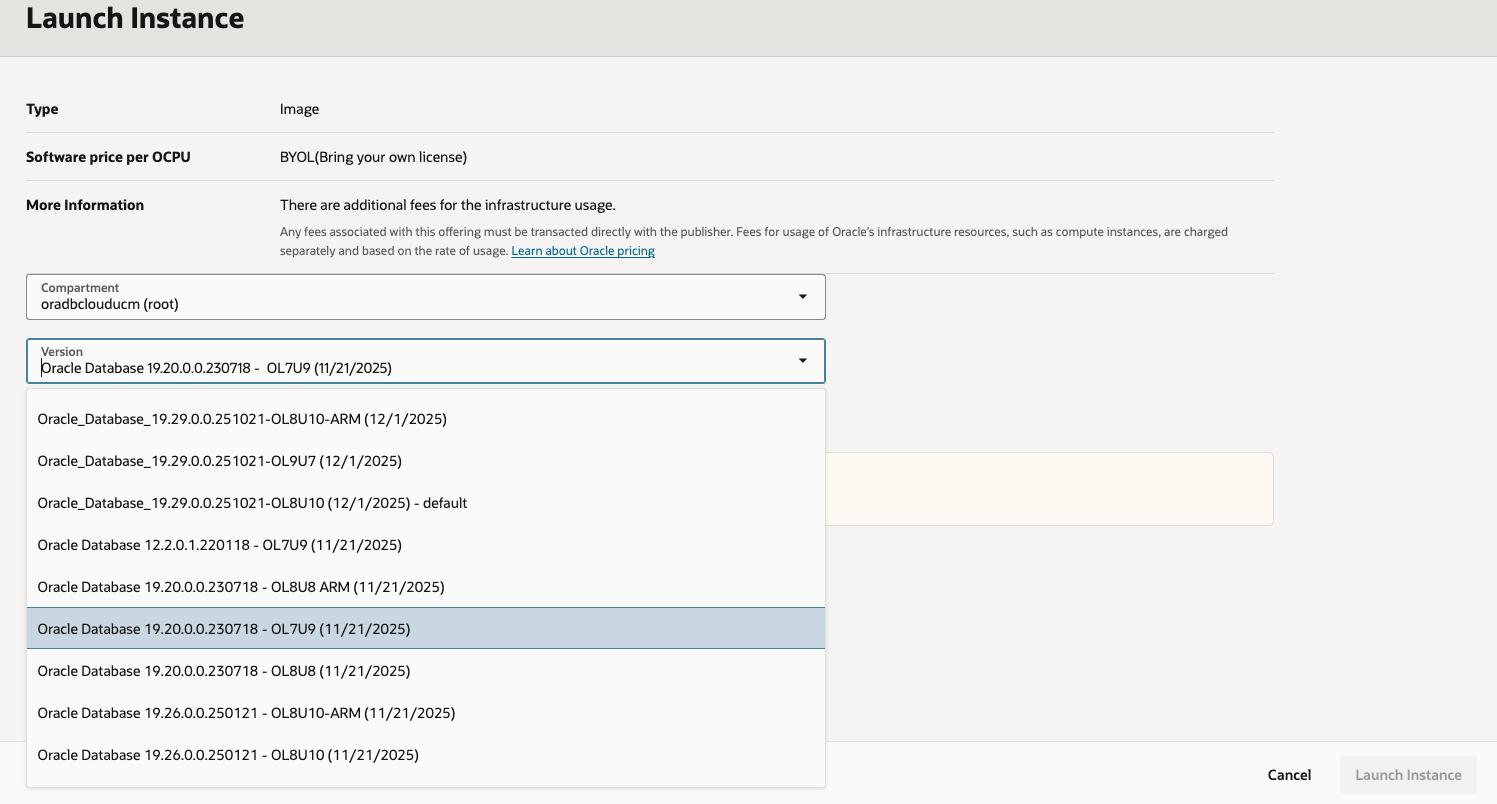
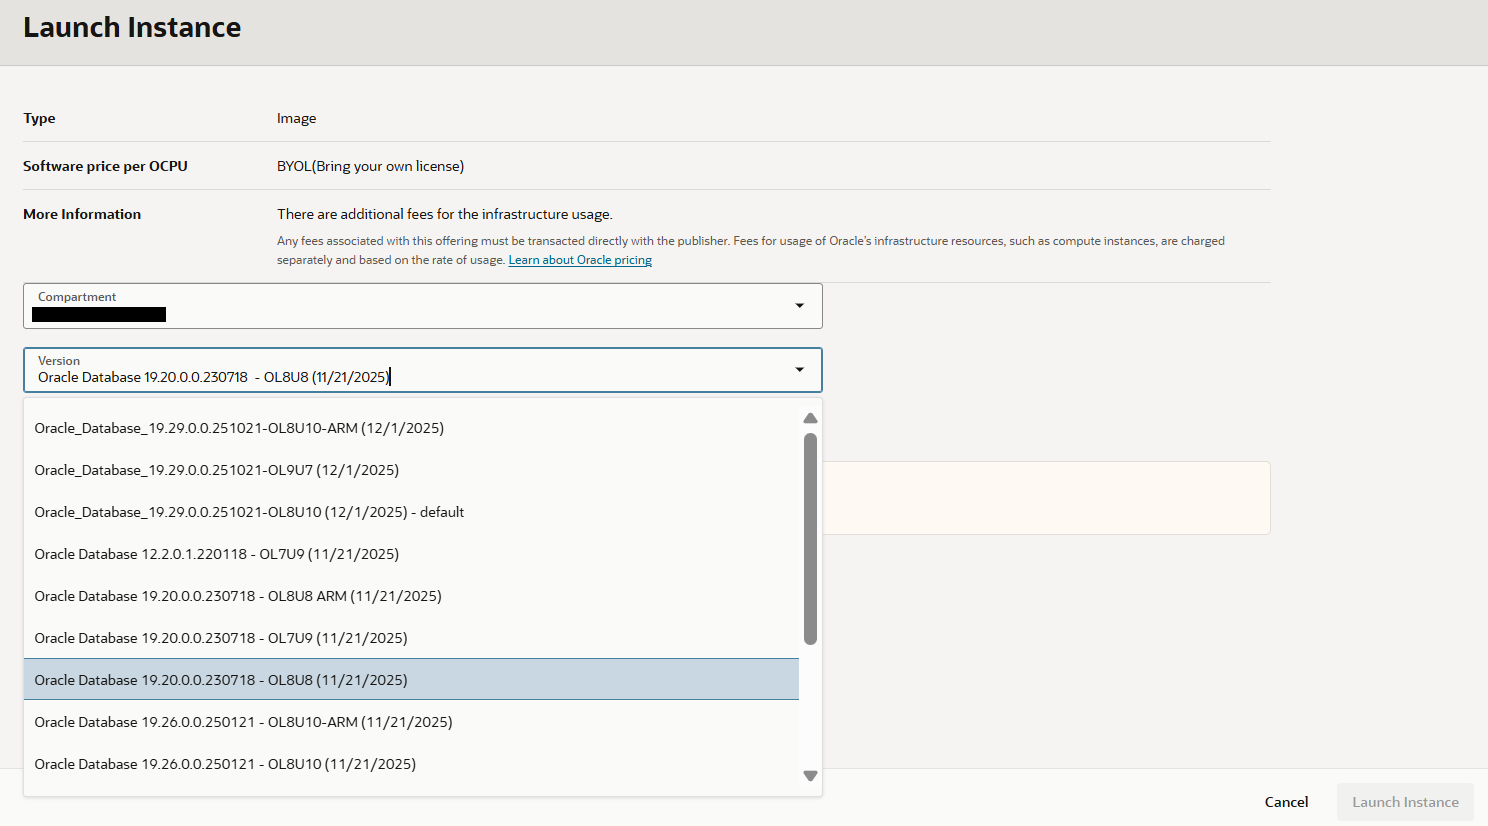
Lab 2 Task 2 changes

diff --git a/zdm-physical-online-direct-data-transfer/source-db-provision/source-db-provision.md b/zdm-physical-online-direct-data-transfer/source-db-provision/source-db-provision.md
@@ -78,75 +78,80 @@ In this task you will create a new Virtual Cloud Network and configure it . You 
 
 2. Click the **Navigation Menu** in the upper left, navigate to **Marketplace** and then select **All Applications**.
 
-   ![Image showing navigation to Marketplace](./images/navigate-to-marketplace.png " ")
+   ![Image showing navigation to Marketplace](./images/lab2-t2-s2.png " ")
 
 3. Type **Oracle Database** in search bar.
 
-   ![Image showing search bar for Marketplace](./images/search-marketplace.png " ")
+   ![Image showing search bar for Marketplace](./images/lab2-t2-s3.png " ")
 
 4. Click on the listed **Oracle Database** Image.
 
-   ![Image showing Oracle Database Marketplace Image](./images/oracle-database-image.png " ")
+   ![Image showing Oracle Database Marketplace Image](./images/lab2-t2-s4.png " ")
 
 5. Click on Launch Instance.
   
-   ![Image showing Oracle Database Marketplace image with Launch Instance option](./images/db-image-launch-option.png " ")
+   ![Image showing Oracle Database Marketplace image with Launch Instance option](./images/lab2-t2-s5.png " ")
 
-6. Select an Oracle Database version ( There will be multiple options including choice of OS).
+6. Select an Image (There will be multiple options including choice of OS).
     
-   Please choose database version on Oracle Linux 8 since your Target DB system will be on Oracle Linux 8 for this lab.
+   Please choose latest 19c database version on Oracle Linux 8 since your Target DB system will be on Oracle Linux 8 for this lab.
 
-   ![Image showing available Marketplace Database Images](./images/db-image-options.png " ")
+   ![Image showing available Marketplace Database Images](./images/lab2-t2-s6.png " ")
 
-   Please make a note of the exact database version with Release Update since it will be required in next Lab.
+   Please make a note of the exact OS and DB version with Release Update since it will be required in next Lab.
 
-7. Ensure to select the correct compartment in your tenancy , accept the agreement  and then click on **Launch Instance**.
+   Ensure to select the correct compartment in your tenancy , accept the agreement  and then click on **Launch Instance**.
 
-   ![Image showing selection for compartment](./images/instance-compartment.png)
+7. On the **Create compute instance** page , update **Name** as **zdm-source-db**.
 
-8. On the **Create compute instance** page , update **Name** for compute as **zdm-source-db** and leave the placement to default.
+   ![Image showing Compute instance Name Prompt](./images/lab2-t2-s7-a.png)
 
-   ![Image showing Compute instance Name Prompt](./images/compute-name-prompt.png)
+   You can leave the Placement , Image  and shape to default .
 
-   You can leave the Image  and shape to default .
+   ![Image showing compute image ](./images/lab2-t2-s7-b.png)
 
-   ![Image showing compute image ](./images/compute-image.png)
+   ![Image showing compute shape](./images/lab2-t2-s7-c.png)
 
-   ![Image showing compute shape](./images/compute-shape.png)
+   Proceed to Security by selecting **Next**
 
-9. Navigate to **Networking** by clicking **Next** two times. Select the VCN created earlier in the lab and also select the subnet.
+8. Leave all security parameters to default and Proceed to Networking by selecting **Next**
 
-   ![Image showing Network selection](./images/network-details-1.png " ")
+   ![Image showing Network selection](./images/lab2-t2-s8.png " ")
+
+9. On the Networking page , select the VCN created earlier in the lab and also select the subnet.
+
+   ![Image showing Network selection](./images/lab2-t2-s9-a.png " ")
 
    You can leave the remaining selection with the default values.
 
-   ![Image showing network selection details](./images/network-details-2.png)
+   ![Image showing network selection details](./images/lab2-t2-s9-b.png)
+   ![Image showing network selection details](./images/lab2-t2-s9-c.png)
 
 10. Under **Add SSH keys**.
 
      Browse and provide the public ssh key generated in Lab 1.
 
-     ![Image showing SSK key details](./images/ssh-key-upload.png " ")
+     ![Image showing SSK key details](./images/lab2-t2-s10.png " ")
 
      Click Next to proceed to Storage.
 
-11. Leave the Storage parameters to default and Click on **Next** to bring up the review screen.
+11. Leave the Storage parameters to default and Proceed to review by selecting **Next**.
 
-    ![Image showing storage parameters](./images/storage-parameters.png " ")
+    ![Image showing storage parameters](./images/lab2-t2-s11.png " ")
 
 12. Review the detail and click on **Create** to start the provisioning.
 
-    ![Image showing final page for compute creation](./images/compute-creation.png " ")
+    ![Image showing final page for compute creation](./images/lab2-t2-s12.png " ")
 
 13. In few minutes , compute instance with database will be provisioned and running as below.
    
-    ![Image showing provisioned compute instance](./images/prov-final.png)
+    ![Image showing provisioned compute instance](./images/lab2-t2-s13.png)
 
 14. Take a note of the private IP address of the compute instance which will used to login to source database system.
 
 15. Collect the value of SYS password.
 
-    Login to the source database server using the Public IP and private ssh key.
+    Login to the source database server using the private IP and private ssh key.
 
     Please refer the value of RACPASSWORD variable in file /u01/ocidb/params.ini for SYS,SYSTEM,PDBADMIN and SYSMAN password.
 
@@ -156,7 +161,7 @@ You may now **proceed to the next lab**.
 
 ## Acknowledgements
 * **Author** - Amalraj Puthenchira, Data Modernisation Black Belt, EMEA Technology Cloud Engineering
-* **Last Updated By/Date** - Amalraj Puthenchira, October 2026
+* **Last Updated By/Date** - Amalraj Puthenchira, November 2026
 
 
 
